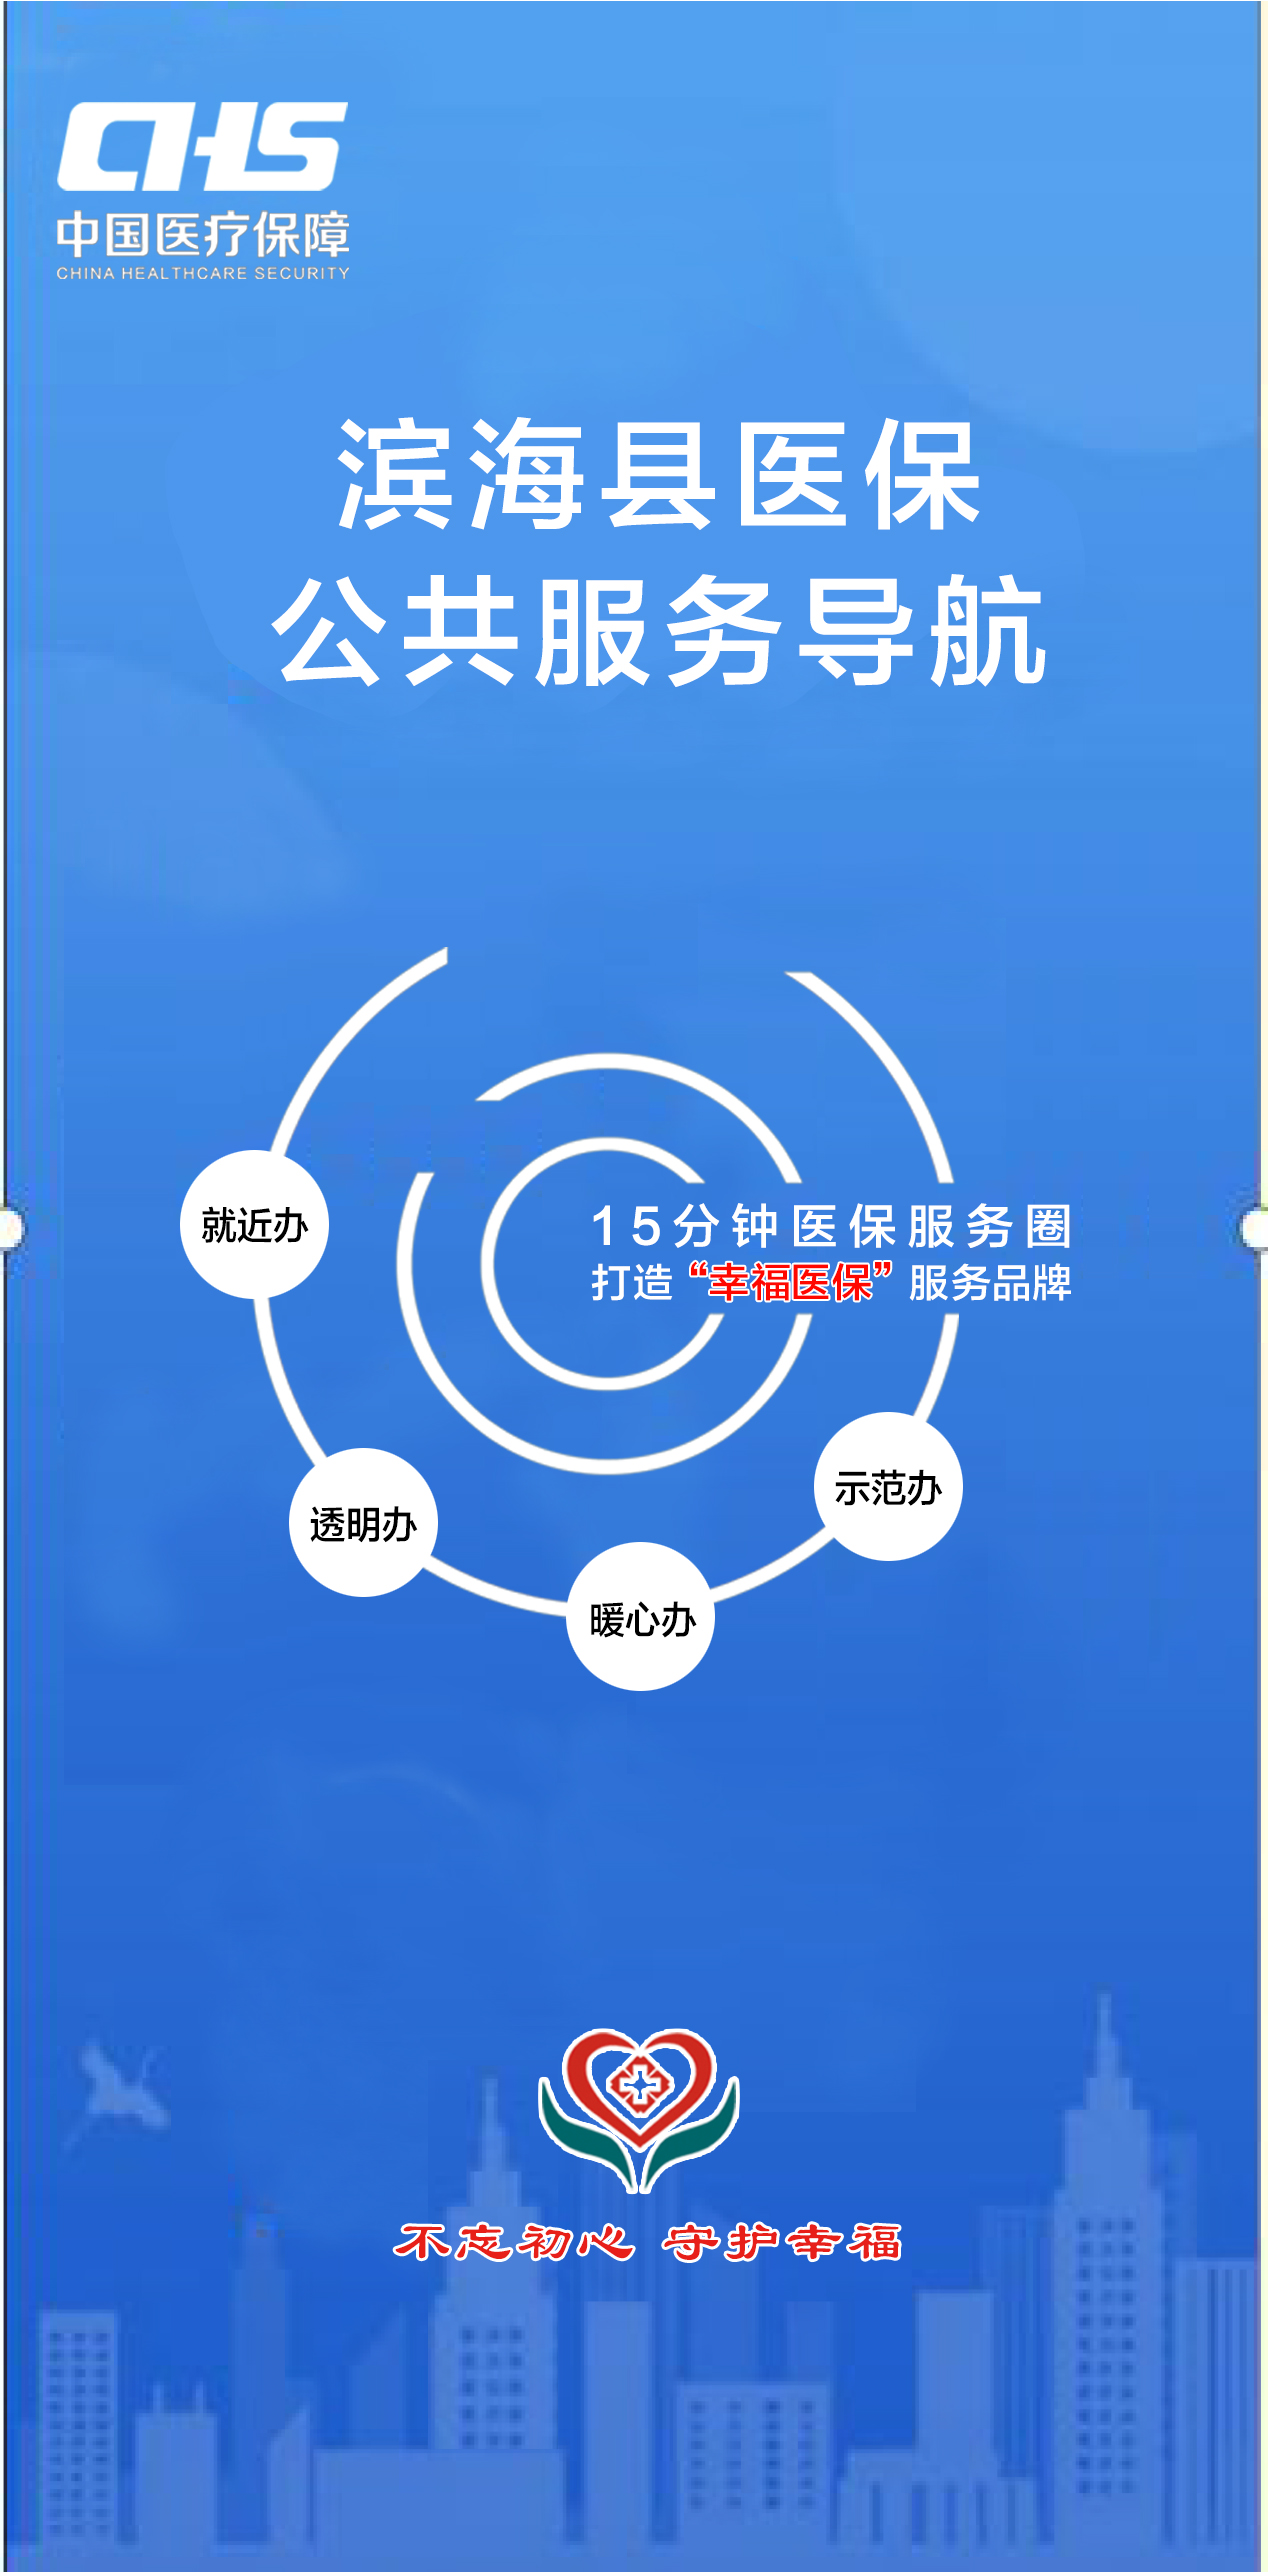
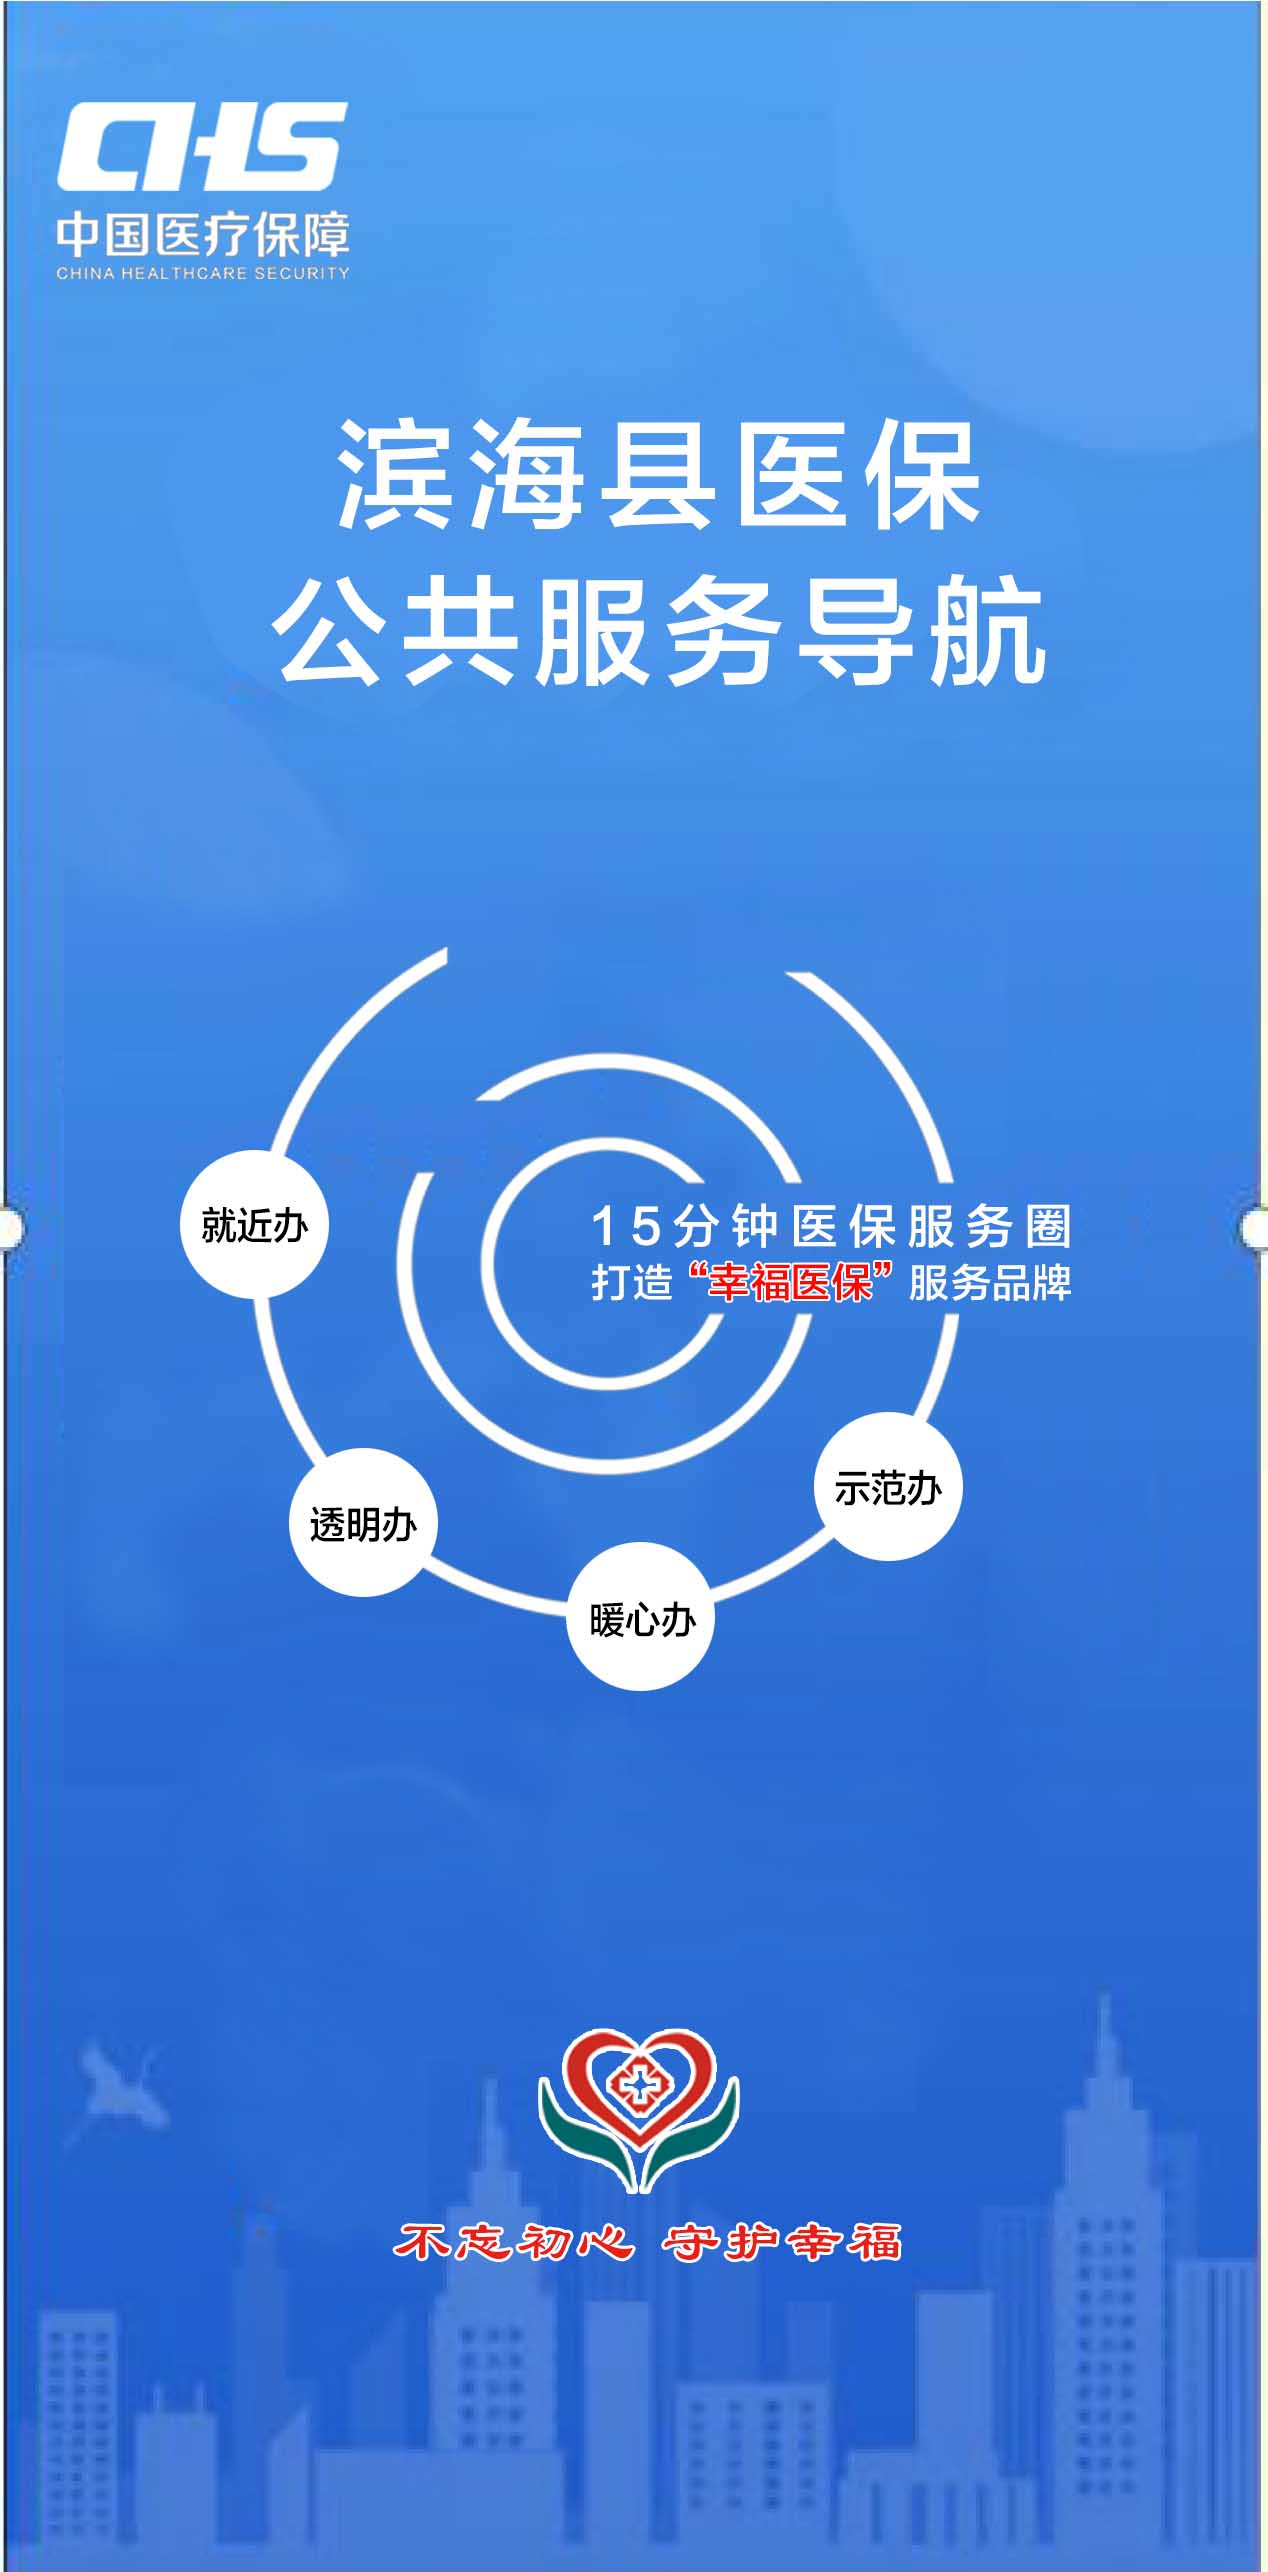
完善主页，增加图片图标素材

diff --git a/main.html b/main.html
@@ -1,3 +1,4 @@
+<!DOCTYPE html>
 <html lang="zh-cmn-Hans">
 <head>
     <meta charset="UTF-8">
@@ -15,19 +16,26 @@
     <div id="title">       
     </div>
 
-    <div id="foot_menu">aa</div>
+    <div id="service_type">        
+    </div>
     
-    </body>
+    <div id="foot_menu">
+    </div>
+    
+</body>
 <script>
-    window.onload=function(){
+    
         $("#banner").load("src/page/main_banner.html" , function(){})
         $("#title").load("src/page/main_title.html" , function(){})
+        $("#service_type").load("src/page/main_service_type.html" , function(){})
         $("#foot_menu").load("src/page/main_footmenu.html" , function(){})
-        }  
+        
 </script>
 <style>
     body{
-        background-image: url("static/img/binhaiharbour.bmp");
+        background-image: url("static/img/binhaiharbour.jpg");
+        background-size:100% 100%;
+        background-attachment:fixed;
     }
     #title{
         margin-top: 5%;

diff --git a/src/page/main_footmenu.html b/src/page/main_footmenu.html
@@ -17,12 +17,14 @@
         padding-bottom: 10;
         padding-left: 10;
         padding-right: 10;
-        background: linear-gradient(to top,#ffffff,rgba(255,255,255,0));
+        background: linear-gradient(to top,#0051bc,rgba(50, 115, 255, 0));
     }
     .bottombtn{
         width: 92%;
         font-size:small;
-        color: rgb(70, 70, 251);
+        color: rgb(70, 112, 251);
+        background-color: rgba(255, 255, 255, 0.858);
+        margin-bottom: 4%;
     }
 </style>
  

diff --git a/src/page/main_banner.html b/src/page/main_banner.html
@@ -8,7 +8,7 @@
 </div>
 <style>
     #banner1{
-        background:rgb(0, 33, 245);
+        background:rgba(0, 33, 245, 0.416);
         background-size:100% 10%;
         background-attachment:fixed;
         text-align: center;
@@ -17,7 +17,7 @@
     }
 
     #banner2{
-        background:rgba(245, 0, 78, 0.929);
+        background:rgba(245, 0, 78, 0.377);
         background-size:100% 10%;
         background-attachment:fixed;
         margin-top: 2%;

diff --git a/src/page/main_service_type.html b/src/page/main_service_type.html
@@ -1,0 +1,14 @@
+<div id="main_service_type1" class="weui-btn weui-btn_default main_service_type">
+    医保服务大厅（1个）
+</div>
+<div id="main_service_type2" class="weui-btn weui-btn_default main_service_type">
+    县城医保服务代办点（2个）
+</div>
+<style>
+    .main_service_type{
+        width: 90%;
+        text-align: left;
+    }
+
+     
+</style>

diff --git a/index.html b/index.html
@@ -1,3 +1,4 @@
+
 <html lang="zh-cmn-Hans">
 <head>
     <meta charset="UTF-8">
